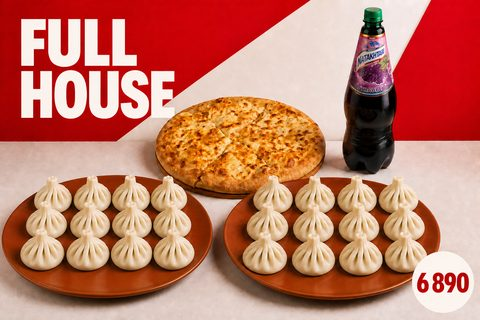
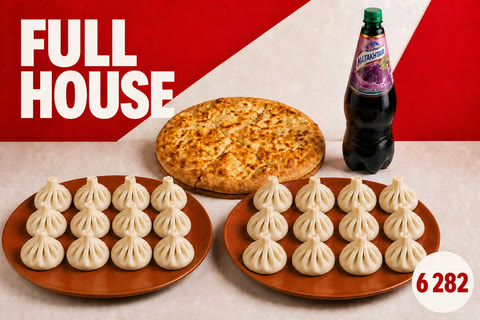
fix: update full house price artwork

diff --git a/apps/client/src/fixtures.ts b/apps/client/src/fixtures.ts
@@ -58,7 +58,7 @@ export const demoCategories: Category[] = [
     title: "Комбо",
     sort_order: 1,
     items: [
-      item("77777777-7777-7777-7777-777777777001", "66666666-6666-6666-6666-666666666001", "FULL HOUSE", "12 × хинкали с мясом • 12 × хинкали с сыром • 1 × хачапури по-мегрельски • 1 × Натахтари виноград 1 л", 6890, 10, staticMedia("full-house-card"), "на 4–5 человек"),
+      item("77777777-7777-7777-7777-777777777001", "66666666-6666-6666-6666-666666666001", "FULL HOUSE", "12 × хинкали с мясом • 12 × хинкали с сыром • 1 × хачапури по-мегрельски • 1 × Натахтари виноград 1 л", 6282, 10, staticMedia("full-house-card"), "на 4–5 человек"),
       item("77777777-7777-7777-7777-777777777002", "66666666-6666-6666-6666-666666666001", "ONE & DONE", "5 × хинкали с мясом • 1 × хачапури по-аджарски • 1 × Натахтари 0,5 л", 2490, 20, staticMedia("one-and-done-card"), "на 1 человека"),
       item("77777777-7777-7777-7777-777777777003", "66666666-6666-6666-6666-666666666001", "DOUBLE", "5 × хинкали с мясом • 5 × хинкали с сыром • 2 × оджахури • 1 × грузинский салат • 2 × Coca-Cola 0,5 л", 5690, 30, staticMedia("double-card"), "на 2–3 человек", "грецкий орех"),
       item("77777777-7777-7777-7777-777777777004", "66666666-6666-6666-6666-666666666001", "SWEET DUO", "2 × медовик • 2 × десерт «Шоколад-вишня»", 2290, 40, staticMedia("sweet-duo-card"), "4 десерта"),

diff --git a/apps/admin/src/api.ts b/apps/admin/src/api.ts
@@ -1183,7 +1183,7 @@ function seedMenu(): AdminMenuResponse {
       "12 × хинкали с мясом • 12 × хинкали с сыром • 1 × хачапури по-мегрельски • 1 × Натахтари виноград 1 л",
       "12 × hinkalija sa mesom • 12 × hinkalija sa sirom • 1 × megrelijski hačapuri • 1 × Natakhtari grožđe 1 l",
       "12 × beef khinkali • 12 × cheese khinkali • 1 × Megrelian khachapuri • 1 × grape Natakhtari 1 L",
-      "6890", "на 4–5 человек", 1, 10, media("full-house-card"),
+        "6282", "на 4–5 человек", 1, 10, media("full-house-card"),
     ),
     itemSeed(
       "77777777-7777-7777-7777-777777777002",

diff --git a/docs/combo-menu.md b/docs/combo-menu.md
@@ -6,7 +6,7 @@ Borjomi 0,5 л и десерта «Шоколад-вишня».
 
 | Сегмент | Название | Состав | Отдельно | Комбо | Экономия |
 |---|---|---|---:|---:|---:|
-| Семья, 4–5 человек | FULL HOUSE | 12 × хинкали с мясом, 12 × хинкали с сыром, 1 × хачапури по-мегрельски, 1 × Натахтари виноград 1 л | 7620 RSD | **6890 RSD** | **730 RSD (9,58%)** |
+| Семья, 4–5 человек | FULL HOUSE | 12 × хинкали с мясом, 12 × хинкали с сыром, 1 × хачапури по-мегрельски, 1 × Натахтари виноград 1 л | 7140 RSD | **6282 RSD** | **858 RSD (12,02%)** |
 | Один человек, XL | ONE & DONE | 5 × хинкали с мясом, 1 × хачапури по-аджарски, 1 × Натахтари 0,5 л | 2758 RSD | **2490 RSD** | **268 RSD (9,72%)** |
 | Пара XL или трое | DOUBLE | 5 × хинкали с мясом, 5 × хинкали с сыром, 2 × оджахури, 1 × грузинский салат, 2 × Coca-Cola 0,5 л | 6290 RSD | **5690 RSD** | **600 RSD (9,54%)** |
 | Двое или компания | SWEET DUO | 2 × медовик, 2 × десерта «Шоколад-вишня» | 2520 RSD | **2290 RSD** | **230 RSD (9,13%)** |
